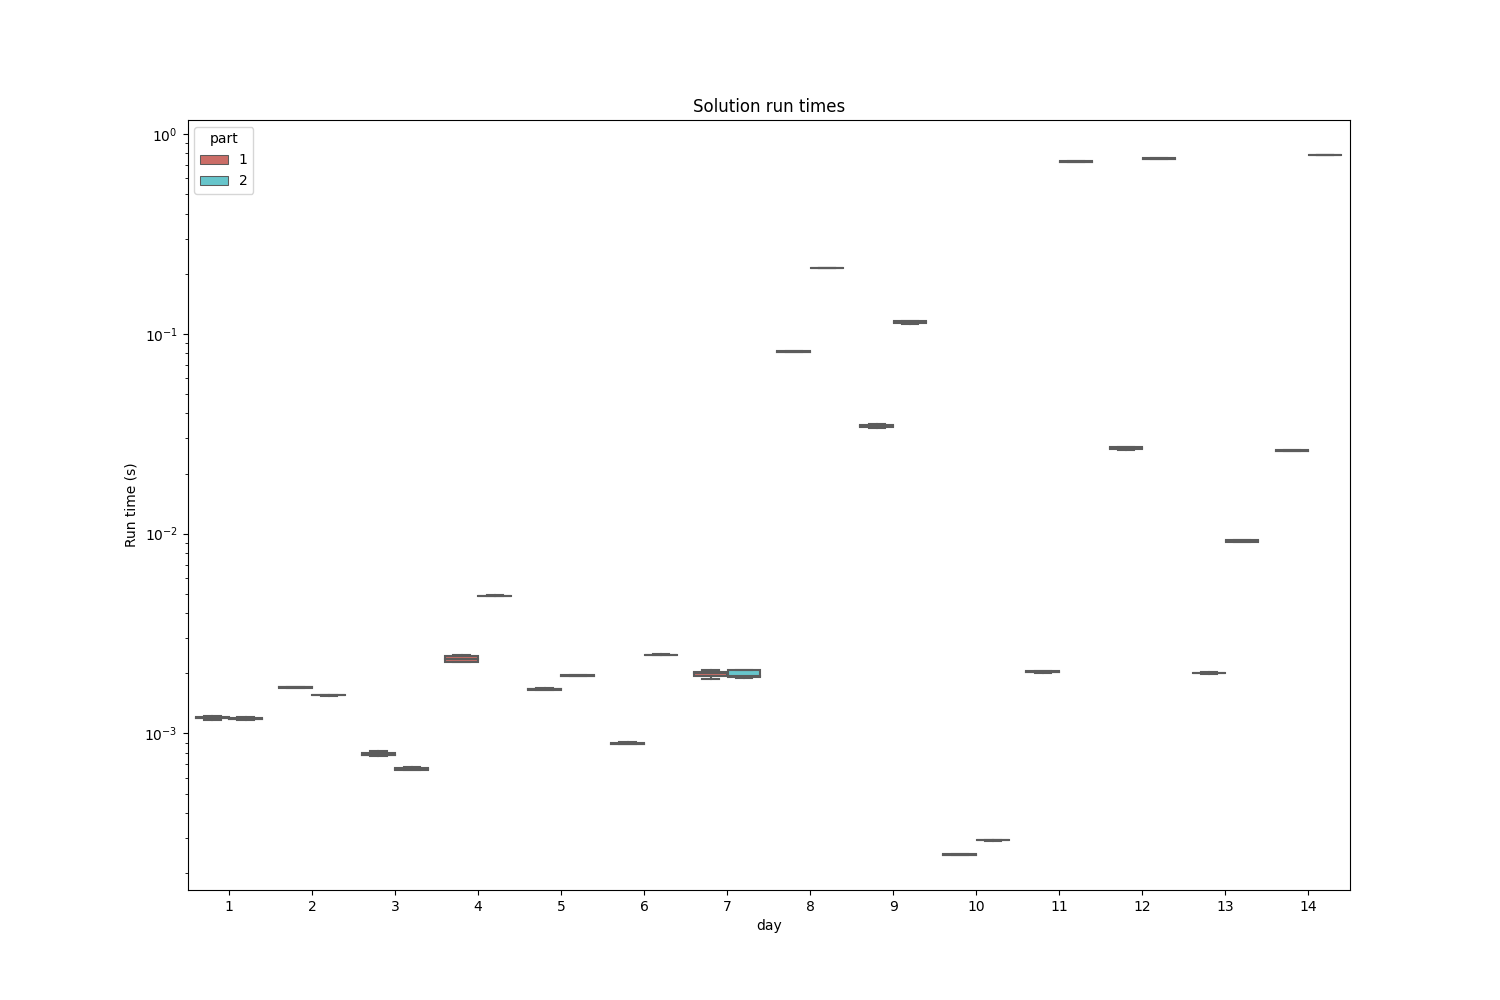
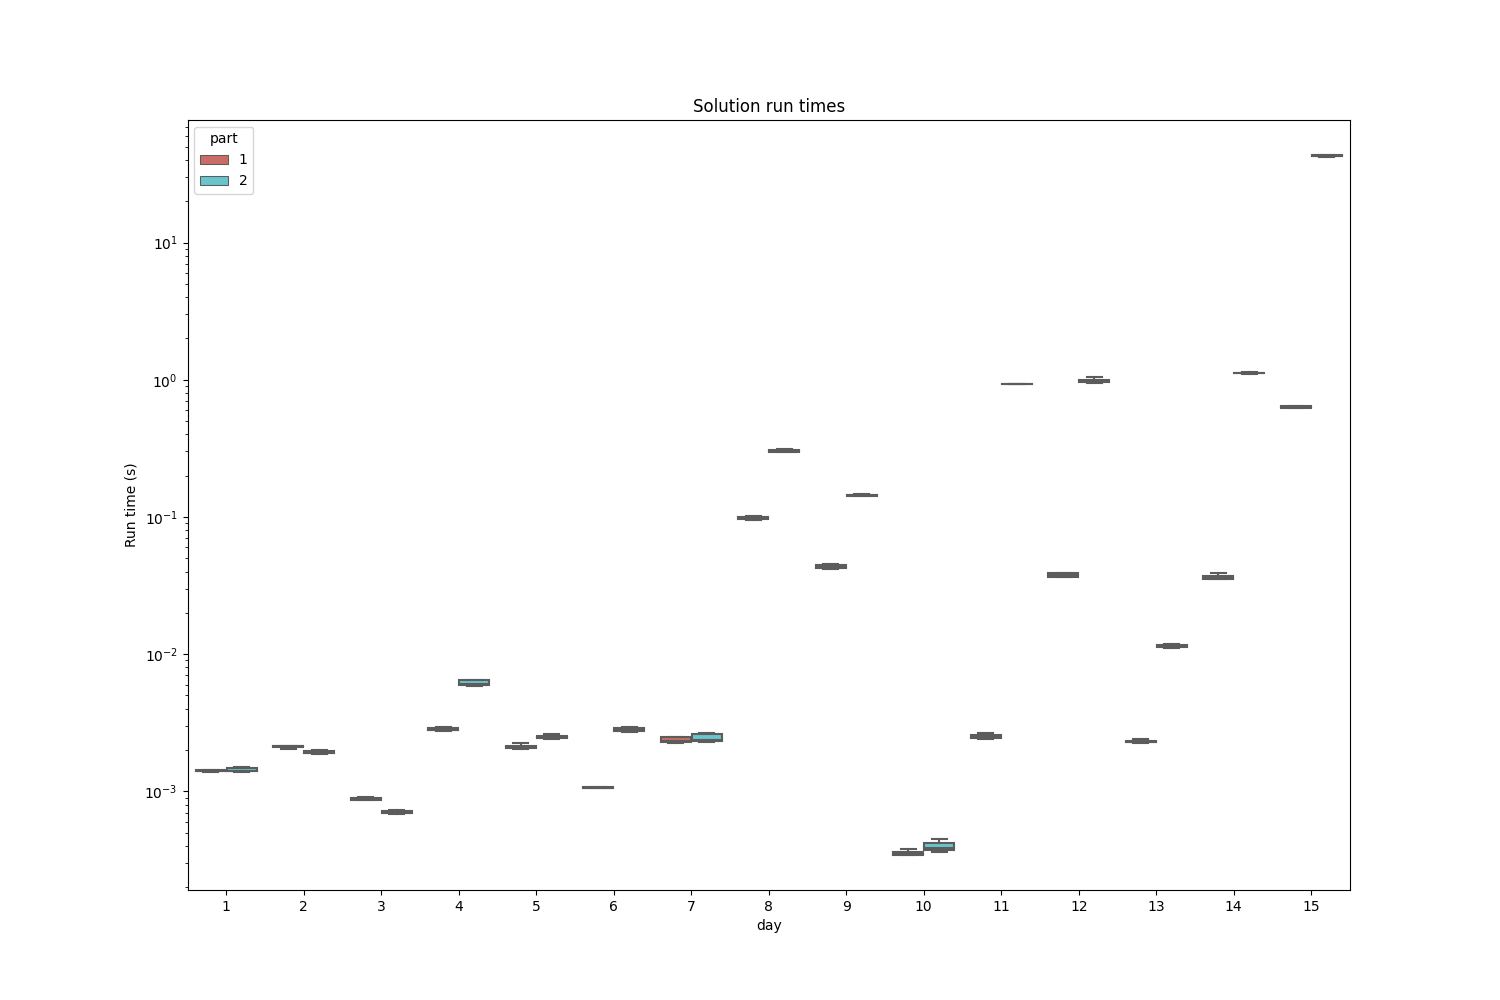
Day 15 (#23)
* working solution

* linting

* ran benchmarking

diff --git a/aoc/day_15.py b/aoc/day_15.py
@@ -1,0 +1,162 @@
+import numpy as np
+from collections import Counter
+from functools import reduce
+
+
+def parse_line(line: str) -> list:
+    """
+    parse string and return list of complex numbers
+    first representing sensor
+    second representing beacon
+
+    Args:
+        line (str): line
+
+    Returns:
+        list: list of sesnosr beacon
+    """
+    # initialise data
+    data = []
+    # for sensor and beacon
+    for substr in [line[: line.index(":")], line[line.index(":") + 1 :]]:
+        # find x and y
+        substr_x = int(substr[substr.index("x=") + 2 : substr.index(",")])
+        # multiple y by complex
+        substr_y = int(substr[substr.index("y=") + 2 :]) * 1j
+        # append to data
+        data.append(substr_x + substr_y)
+    # return data
+    return data
+
+
+def part_one(file_path: str, y: int = 2_000_000) -> int:
+    """
+    reads file
+    parses data
+    calculates difference between sensor and beacon
+
+
+
+    Args:
+        file_path (str): input file
+        y (int, optional): y value to check ruled out x points for.
+            Defaults to 2_000_000.
+
+    Returns:
+        int: Number of x coordinates ruled out
+    """
+
+    # read file
+    with open(file_path) as f:
+        lines = f.readlines()
+    # parse files
+    data = np.array([parse_line(line) for line in lines])
+    # calculates difference between sensor and beacon
+    manhattan_dist = np.diff(data, axis=1)[:, 0]
+    manhattan_dist = np.abs(np.real(manhattan_dist)) + np.abs(np.imag(manhattan_dist))
+    # calculate y distance
+    y_dist = np.abs(np.imag(data[:, 0]) - y)
+    # calculate x distance it can be
+    x_dist = np.vstack(manhattan_dist - y_dist).clip(min=0)[:, 0]
+    # calculate min and max x_val
+    x_range = np.vstack(
+        [np.real(data[:, 0]) - x_dist, np.real(data[:, 0]) + x_dist]
+    ).T.astype(int)
+    # initialise ruled out positions
+    ruled_out = []
+    # for each row
+    for row in x_range:
+        # append the range between the two values
+        ruled_out.append(np.arange(start=row[0], stop=row[1] + 1))
+    # concatenate values
+    ruled_out = np.concatenate(ruled_out)
+    # take unique of values
+    ruled_out = np.unique(ruled_out)
+    # remove all beacons on the row
+    beacons = np.real(data[:, 1])[np.where(np.imag(data[:, 1]) == y)]
+    beacons = np.unique(beacons)
+    return len(ruled_out) - len(beacons)
+
+
+def part_two(file_path: str, max_val=4000000) -> int:
+    """
+    read file
+    parse data
+    calculate manhattan distnace between sensors and beacons
+    for each sensor, beacon calculate the outer perimeter
+    create set of perimeter points that occur at least 4 times
+    check whether each of these can be a beacon
+
+    Args:
+        file_path (str): file path
+        max_val (int, optional): maximum value of ruled out point.
+        Defaults to 4000000.
+
+    Returns:
+        int: 4000000 * x coordinate + y coordinate of ruled out point
+    """
+    # read file
+    with open(file_path) as f:
+        lines = f.readlines()
+    # parse data
+    data = np.array([parse_line(line) for line in lines])
+    # calcaulte manhattan distances
+    manhattan_dist = np.diff(data, axis=1)[:, 0]
+    manhattan_dist = np.abs(np.real(manhattan_dist)) + np.abs(np.imag(manhattan_dist))
+    # initialise counter object
+    counter = Counter()
+    # for each pair
+    for i in range(len(data)):
+        # calculate y values of perimeter
+        y_range = np.arange(
+            start=np.imag(data[i, 0]) - manhattan_dist[i] - 1,
+            stop=np.imag(data[i, 0]) + manhattan_dist[i] + 2,
+        )
+        # calculate y distance for each of those
+        y_dist = np.abs(np.imag(data[i, 0]) - y_range)
+        # calculate remaining x_dist for each value
+        x_dist = manhattan_dist[i] + 1 - y_dist
+        # minimum value and maximum_value
+        x_min = np.real(data[i, 0]) - x_dist
+        x_max = np.real(data[i, 0]) + x_dist
+        # get coords
+        co_ords = np.concatenate([x_min, x_max]) + 1j * np.concatenate(
+            [y_range, y_range]
+        )
+        # filter coordinates
+        co_ords = co_ords[
+            np.where(
+                reduce(
+                    lambda x, y: x & y,
+                    [
+                        np.real(co_ords) >= 0,
+                        np.real(co_ords) <= max_val,
+                        np.imag(co_ords) >= 0,
+                        np.imag(co_ords) <= max_val,
+                    ],
+                )
+            )
+        ]
+        # append all values
+        counter.update(
+            np.concatenate([x_min, x_max]) + 1j * np.concatenate([y_range, y_range])
+        )
+    # filter on all coords that occur 4+ times
+    co_ords = np.array([key for key, value in counter.items() if value >= 4])
+    # calculate distances from all beacons
+    co_ords_grid, sensors = np.meshgrid(co_ords, data[:, 0])
+    coord_sensor_distance = co_ords_grid - sensors
+    coord_sensor_distance = np.abs(np.real(coord_sensor_distance)) + np.abs(
+        np.imag(coord_sensor_distance)
+    )
+    # get manhattan distance for each coord
+    _, man_dist = np.meshgrid(co_ords, manhattan_dist)
+    # ensure all are outside manhattan distance
+    free_space = co_ords[(coord_sensor_distance > man_dist).all(axis=0)][0]
+    # return calc value of free space
+    return np.real(free_space) * 4000000 + np.imag(free_space)
+
+
+if __name__ == "__main__":
+    print(part_one("aoc/inputs/day_15.txt"))
+    print(part_two("aoc/inputs/day_15.txt"))

diff --git a/tests/test_day_15.py b/tests/test_day_15.py
@@ -1,0 +1,75 @@
+import pytest
+
+from aoc.day_15 import part_one, part_two, parse_line
+
+
+@pytest.mark.parametrize(
+    "line,expected",
+    [
+        ("Sensor at x=2, y=18: closest beacon is at x=-2, y=15", [2 + 18j, -2 + 15j]),
+        ("Sensor at x=9, y=16: closest beacon is at x=10, y=16", [9 + 16j, 10 + 16j]),
+        (
+            "Sensor at x=13, y=2: closest beacon is at x=15, y=3",
+            [13 + 2j, 15 + 3j],
+        ),
+        (
+            "Sensor at x=12, y=14: closest beacon is at x=10, y=16",
+            [12 + 14j, 10 + 16j],
+        ),
+        (
+            "Sensor at x=10, y=20: closest beacon is at x=10, y=16",
+            [10 + 20j, 10 + 16j],
+        ),
+        (
+            "Sensor at x=14, y=17: closest beacon is at x=10, y=16",
+            [14 + 17j, 10 + 16j],
+        ),
+        (
+            "Sensor at x=8, y=7: closest beacon is at x=2, y=10",
+            [8 + 7j, 2 + 10j],
+        ),
+        ("Sensor at x=2, y=0: closest beacon is at x=2, y=10", [2, 2 + 10j]),
+        (
+            "Sensor at x=0, y=11: closest beacon is at x=2, y=10",
+            [0 + 11j, 2 + 10j],
+        ),
+        (
+            "Sensor at x=20, y=14: closest beacon is at x=25, y=17",
+            [20 + 14j, 25 + 17j],
+        ),
+        (
+            "Sensor at x=17, y=20: closest beacon is at x=21, y=22",
+            [17 + 20j, 21 + 22j],
+        ),
+        (
+            "Sensor at x=16, y=7: closest beacon is at x=15, y=3",
+            [16 + 7j, 15 + 3j],
+        ),
+        (
+            "Sensor at x=14, y=3: closest beacon is at x=15, y=3",
+            [14 + 3j, 15 + 3j],
+        ),
+        (
+            "Sensor at x=20, y=1: closest beacon is at x=15, y=3",
+            [20 + 1j, 15 + 3j],
+        ),
+    ],
+)
+def test_parse_line(line, expected):
+
+    assert parse_line(line) == expected
+
+
+def test_part_one():
+
+    test_file_path = "tests/test_inputs/test_day_15.txt"
+
+    assert part_one(test_file_path, y=10) == 26
+
+
+def test_part_two():
+
+    test_file_path = "tests/test_inputs/test_day_15.txt"
+
+    response = part_two(test_file_path, max_val=20)
+    assert response == 56000011

diff --git a/benchmark.py b/benchmark.py
@@ -65,5 +65,5 @@ def save_figure(df):
 
 
 if __name__ == "__main__":
-    df = run_benchmarks(n=25)
+    df = run_benchmarks(n=10)
     save_figure(df)
